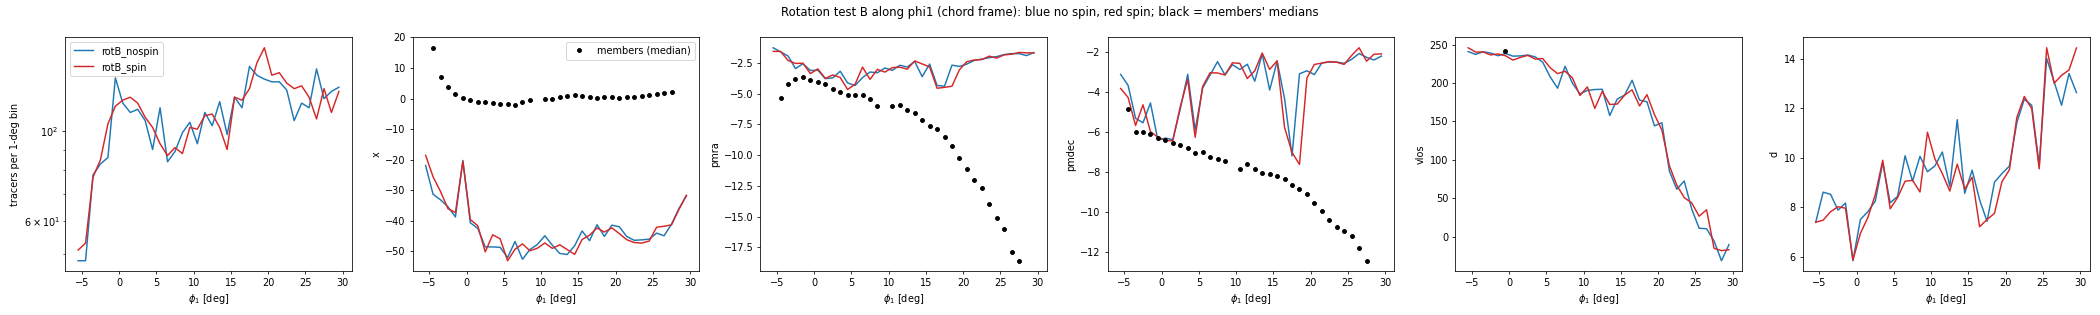
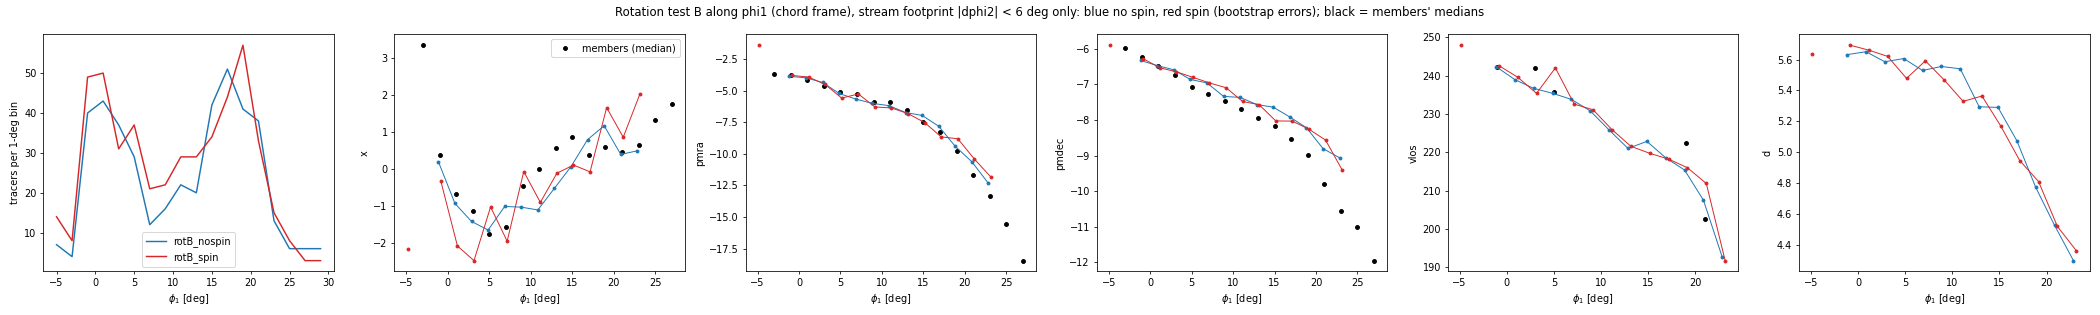
Fix rotation test B plots: restrict to the stream footprint (previous version dominated by off-stream debris)

diff --git a/bin/streams/compare_spin_tracers.py b/bin/streams/compare_spin_tracers.py
@@ -3,7 +3,8 @@
 without and with internal rotation (Lynden-Bell flips, fitted spin). Unbound debris (> 0.3 kpc from the centre today) in the
 observable space and along phi1 of the chord great-circle frame.
 Figures: plots/rotB_observables.png (log-density contours of both runs, members as points; same panels as the KDE plots);
-plots/rotB_along_phi1.png (per 1-deg phi1 bin: tracer counts, medians of dphi2, pmra, pmdec, v_los, d; members' medians).
+plots/rotB_along_phi1.png (per 2-deg phi1 bin, debris in the stream footprint |dphi2| < 6 deg only: tracer counts, medians of dphi2,
+pmra, pmdec, v_los, d with bootstrap errors; members' medians with the same cut).
 Numbers: results/plot_data/rotB_compare.json.
 Usage: python bin/streams/compare_spin_tracers.py [run_a run_b]
 """
@@ -26,6 +27,9 @@ for r in runs:
     k = np.linalg.norm(xv[:, :3]-c[:3], axis=1) > 0.3; o = observables(xv[k])
     m = dict(l=w(o["l"]), b=o["b"], pmra=o["pmra"], pmdec=o["pmdec"], vlos=o["vlos"], d=o["dist"]); m["u"], m["x"] = project_gc(m["l"], m["b"], GC)
     M[r] = m; print(r, "unbound tracers", k.sum(), "of", len(k))
+FP = 6.
+for r in runs:                                                       # stream footprint only (other wraps / leading arm excluded)
+    M[r] = {q: v[np.abs(M[r]["x"]) < FP] for q, v in M[r].items()}
 PANELS = (("l", "b", (-75, -10), (5, 45)), ("b", "l", (10, 45), (-70, -30)), ("b", "pmra", (10, 45), (-22, 0)),
           ("b", "pmdec", (10, 45), (-15, -3)), ("b", "vlos", (10, 45), (120, 300)), ("b", "d", (10, 45), (2.5, 6.5)))
 fig, ax = plt.subplots(1, 6, figsize=(30, 5))
@@ -37,24 +41,27 @@ for a, (xq, yq, xr, yr) in zip(ax, PANELS):
                    yerr=[0]+[5.43*c_["d_ratio"]*np.log(10)/5*c_["dm_err"] for c_ in cmd], fmt="s", color="k", mfc="w", ms=6, zorder=5)
     else:
         a.plot(d[xq], d[yq], ".", color="0.5", ms=1.2, alpha=0.5, zorder=1)
-    for r, col in zip(runs, ("C0", "C3")):
-        H, xe, ye = np.histogram2d(M[r][xq], M[r][yq], bins=(120, 120), range=(sorted(xr), yr))
-        from scipy.ndimage import gaussian_filter
-        H = gaussian_filter(H, 1.2).T; lv = np.log10(H+1e-9); v = lv.max()
-        a.contour(0.5*(xe[1:]+xe[:-1]), 0.5*(ye[1:]+ye[:-1]), lv, levels=v-np.array([2.5, 2., 1.5, 1., 0.5]), colors=col, linewidths=1.)
+    for r, col in zip(runs, ("C0", "C3")):            # tracers are few (~450 in the footprint): points, not density contours
+        a.plot(M[r][xq], M[r][yq], "o", color=col, ms=2.5, alpha=0.7, zorder=3)
     a.set_xlim(*(xr[::-1] if xq == "l" else xr)); a.set_ylim(*yr); a.set_xlabel(xq); a.set_ylabel(yq)
 ax[0].plot([], [], "C0", label=runs[0]); ax[0].plot([], [], "C3", label=runs[1]); ax[0].legend()
-fig.suptitle("Rotation test B: tracer debris (> 0.3 kpc from the centre) without (blue) and with (red) internal rotation; contours 10^-0.5..10^-2.5 of peak; members grey/black")
+fig.suptitle("Rotation test B: tracer debris (> 0.3 kpc from the centre, stream footprint |dphi2| < 6 deg) without (blue) and with (red) internal rotation; members grey/black")
 fig.tight_layout(); fig.savefig(ROOT/"plots/rotB_observables.png", dpi=62)
-edges = np.arange(np.floor(du.min()), np.ceil(du.max())+1, 1.); cen = 0.5*(edges[1:]+edges[:-1]); Q = ["x", "pmra", "pmdec", "vlos", "d"]
+edges = np.arange(np.floor(du.min()), np.ceil(du.max())+2, 2.)
+dsel = np.abs(dx) < FP; cen = 0.5*(edges[1:]+edges[:-1]); Q = ["x", "pmra", "pmdec", "vlos", "d"]
 fig, ax = plt.subplots(1, 6, figsize=(30, 4.5)); out = dict(phi1=cen.tolist())
 for r, col in zip(runs, ("C0", "C3")):
     m = M[r]; ib = np.digitize(m["u"], edges)-1; n = np.bincount(ib[(ib >= 0) & (ib < len(cen))], minlength=len(cen))
     ax[0].plot(cen, n, col, label=r); out[r] = dict(n=n.tolist())
     for a, q in zip(ax[1:], Q):
-        med = [np.median(m[q][ib == j]) if (ib == j).sum() >= 10 else np.nan for j in range(len(cen))]
-        a.plot(cen, med, col); out[r][q] = [float(v) for v in med]
-dib = np.digitize(du, edges)-1
+        med, err = [], []
+        for j in range(len(cen)):
+            v = m[q][ib == j]
+            if len(v) < 10:
+                med.append(np.nan); err.append(np.nan); continue
+            med.append(np.median(v)); err.append(np.std([np.median(np.random.default_rng(j).choice(v, len(v))) for _ in range(200)]))
+        a.errorbar(cen+(0.15 if col == "C3" else -0.15), med, yerr=err, color=col, fmt="o-", ms=3, lw=1); out[r][q] = [float(v) for v in med]
+dib = np.where(dsel, np.digitize(du, edges)-1, -1)
 for a, q in zip(ax[1:], Q):
     if q == "d": continue
     v = d["v"] if q == "vlos" else d[q]
@@ -62,12 +69,12 @@ for a, q in zip(ax[1:], Q):
     a.plot(cen, med, "ko", ms=4, label="members (median)")
 for a, q in zip(ax, ["tracers per 1-deg bin"]+Q):
     a.set_xlabel(r"$\phi_1$ [deg]"); a.set_ylabel(q)
-ax[0].set_yscale("log"); ax[0].legend(); ax[1].legend()
-fig.suptitle("Rotation test B along phi1 (chord frame): blue no spin, red spin; black = members' medians"); fig.tight_layout()
+ax[0].legend(); ax[1].legend()
+fig.suptitle("Rotation test B along phi1 (chord frame), stream footprint |dphi2| < 6 deg only: blue no spin, red spin (bootstrap errors); black = members' medians"); fig.tight_layout()
 fig.savefig(ROOT/"plots/rotB_along_phi1.png", dpi=70)
 (ROOT/"results/plot_data/rotB_compare.json").write_text(json.dumps(out))
 a0, a1 = out[runs[0]], out[runs[1]]
-for j in range(len(cen)):
-    if a0["n"][j] >= 10 and a1["n"][j] >= 10:
+for j in []:
+    if True:
         print(f"phi1 {cen[j]:5.1f}: n {a0['n'][j]:5d} -> {a1['n'][j]:5d}; d(dphi2) {a1['x'][j]-a0['x'][j]:+.2f}; d(pmra) {a1['pmra'][j]-a0['pmra'][j]:+.3f}; "
               f"d(pmdec) {a1['pmdec'][j]-a0['pmdec'][j]:+.3f}; d(vlos) {a1['vlos'][j]-a0['vlos'][j]:+.1f}")
